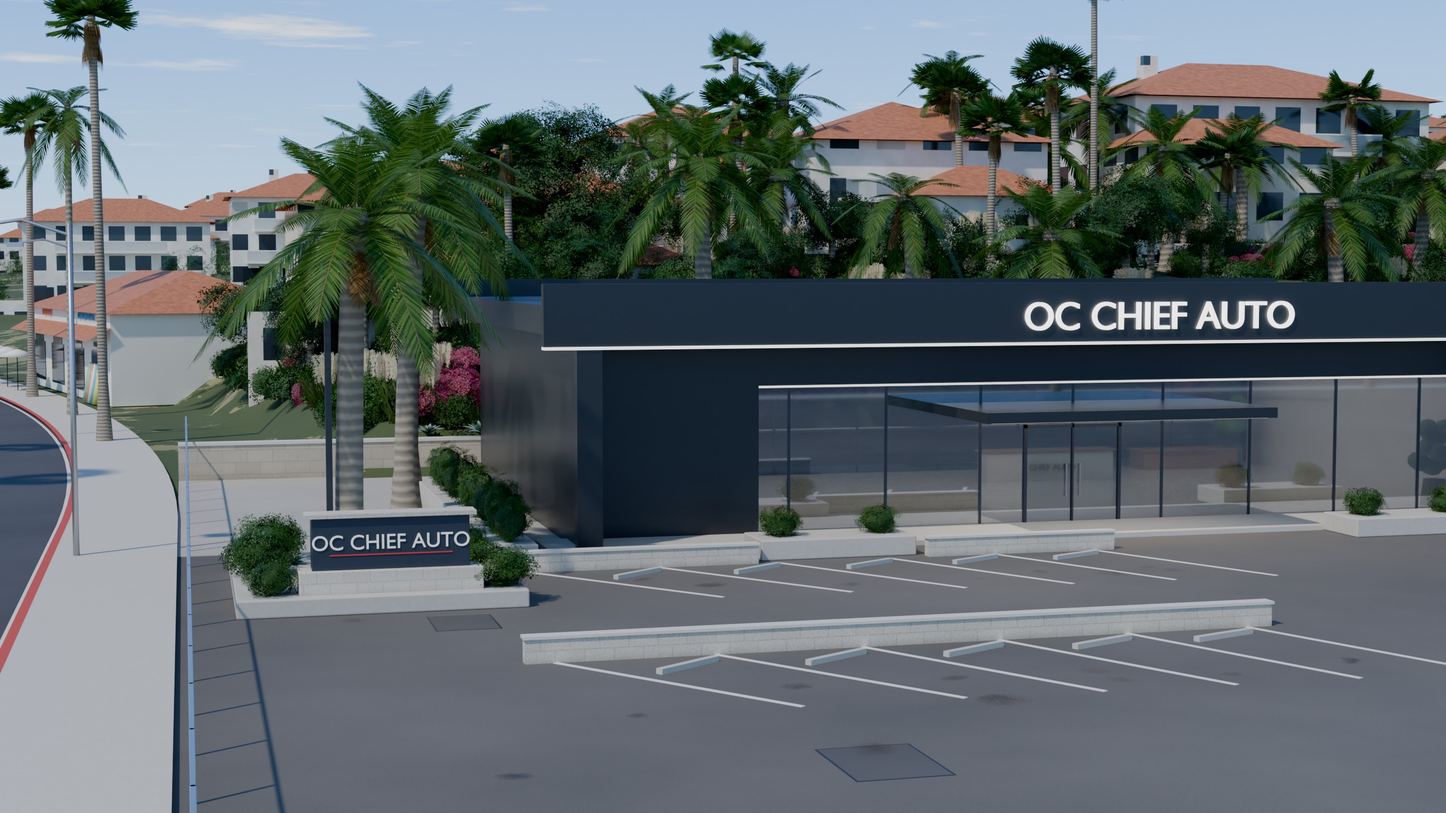
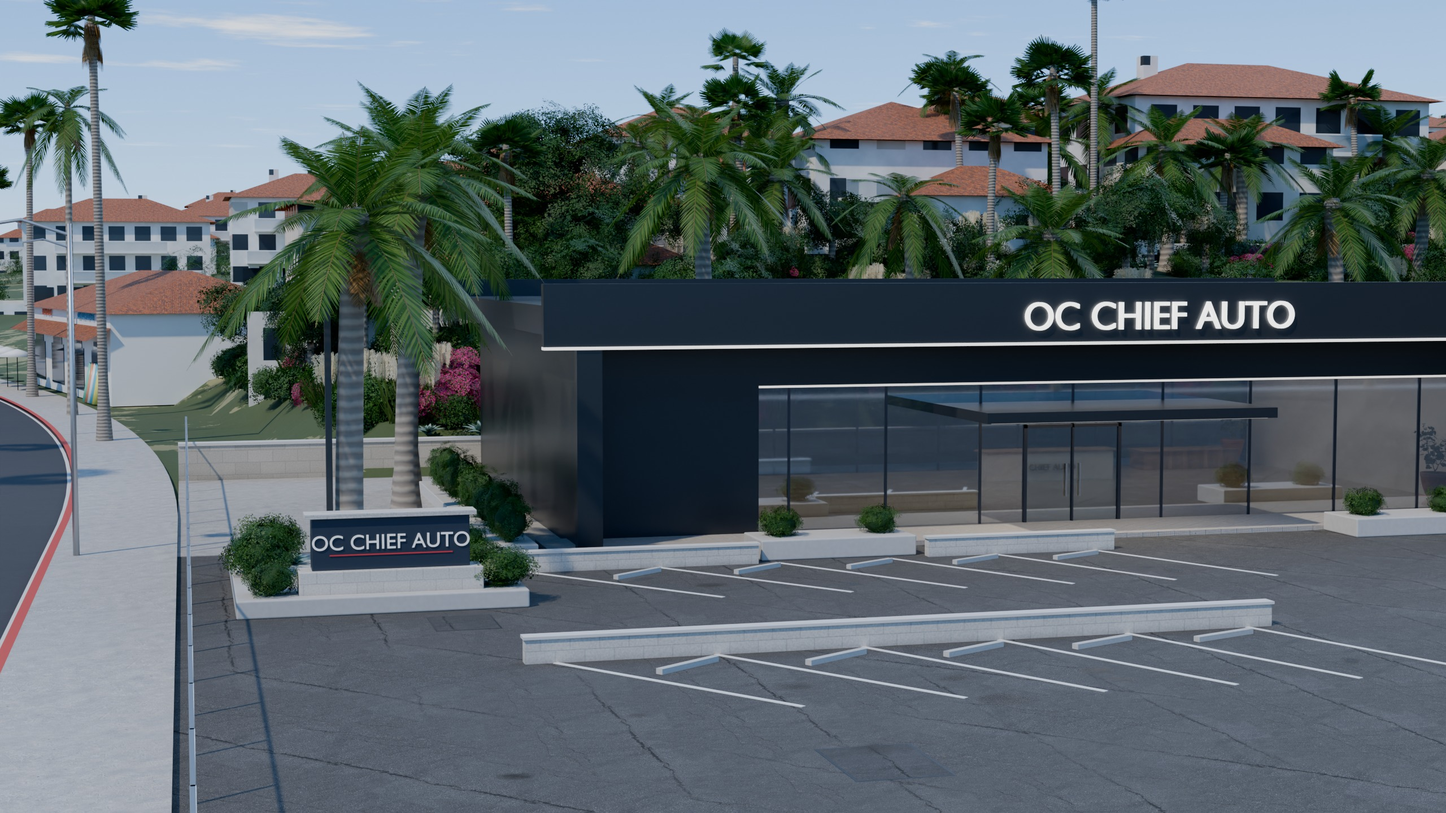
CC0 materials: single dominant-axis projection (faster renders); flagship lot, showroom and office re-rendered with scanned materials and HDRI bounce light
Claude-Session: https://claude.ai/code/session_01NPxWDMmDr35mH1YXpri3Ec

diff --git a/tools/dealership3d.py b/tools/dealership3d.py
@@ -127,7 +127,7 @@ def noise_mat(name, c1, c2, scale, rough, detail=6, bump=0.0, metal=0.0, veins=F
 # ---------------------------------------------------------------- CC0 scanned materials and props (Poly Haven)
 # Real photo-scanned textures replace the procedural asphalt, concrete, walls, roof tiles, sand, grass, floors and
 # wood (apply_cc0 swaps them in by material name after the scene is built). Each is a Principled BSDF fed by the
-# colour, roughness and OpenGL normal maps, projected triplanar in world metres at the texture's real-world size,
+# colour, roughness and OpenGL normal maps, projected planar along each face's main axis in world metres at the texture's real-world size,
 # with a second rotated, rescaled sample blended in by a large noise and a soft brightness drift so no repeat shows.
 CC0 = os.environ.get("CC0", "/mnt/project-files/chief-auto/cc0")
 _tex_cache = {}
@@ -224,61 +224,23 @@ def cc0_mat(name, tex, size, tint=0.0, rough=None, nstr=1.0, old=None, mul=1.0):
     drift = nt.nodes.new("ShaderNodeMapRange")
     drift.inputs["To Min"].default_value, drift.inputs["To Max"].default_value = 0.86, 1.12
     nt.links.new(_noise(nt, P, 0.12 / size, 2.0).outputs["Fac"], drift.inputs["Value"])
-    # triplanar weights |N|^4, normalised
-    ws = [_math(nt, "POWER", _math(nt, "ABSOLUTE", sn.outputs[a]), 4.0) for a in "XYZ"]
-    tot = _math(nt, "ADD", _math(nt, "ADD", ws[0], ws[1]), _math(nt, "ADD", ws[2], 1e-5))
-    ws = [_math(nt, "DIVIDE", w, tot) for w in ws]
-    cols, rs, ns = [], [], []
-    for ax, (u, v) in enumerate((("Y", "Z"), ("X", "Z"), ("X", "Y"))):
-        uv = nt.nodes.new("ShaderNodeCombineXYZ")
-        nt.links.new(sp.outputs[u], uv.inputs[0])
-        nt.links.new(sp.outputs[v], uv.inputs[1])
-        rot = nt.nodes.new("ShaderNodeVectorRotate")
-        rot.rotation_type = "Z_AXIS"
-        rot.inputs["Angle"].default_value = 0.63 + ax * 0.9
-        nt.links.new(uv.outputs[0], rot.inputs["Vector"])
-        uv2 = nt.nodes.new("ShaderNodeVectorMath")
-        uv2.operation = "MULTIPLY_ADD"
-        uv2.inputs[1].default_value = (0.79, 0.79, 0.79)
-        uv2.inputs[2].default_value = (0.37 + ax * 0.21, 0.71, 0.0)
-        nt.links.new(rot.outputs[0], uv2.inputs[0])
-        per = []
-        for im in (dif, rgh, nor):
-            outs = []
-            for vec in (uv.outputs[0], uv2.outputs[0]):
-                t = nt.nodes.new("ShaderNodeTexImage")
-                t.image = im
-                t.interpolation = "Linear"
-                nt.links.new(vec, t.inputs["Vector"])
-                outs.append(t.outputs["Color"])
-            per.append(_mix(nt, mix_f, outs[0], outs[1]))
-        cols.append(per[0])
-        rs.append(per[1])
-        # tangent-space normal to world: (r,g) run along the projection's u,v; b along the face normal
-        tn = nt.nodes.new("ShaderNodeVectorMath")
-        tn.operation = "MULTIPLY_ADD"
-        tn.inputs[1].default_value = (2.0 * nstr, 2.0 * nstr, 2.0)
-        tn.inputs[2].default_value = (-nstr, -nstr, -1.0)
-        nt.links.new(per[2], tn.inputs[0])
-        st = nt.nodes.new("ShaderNodeSeparateXYZ")
-        nt.links.new(tn.outputs[0], st.inputs[0])
-        out_ax = "XYZ"[ax]
-        comps = {u: st.outputs["X"], v: st.outputs["Y"],
-                 out_ax: _math(nt, "MULTIPLY", st.outputs["Z"], _math(nt, "SIGN", sn.outputs[out_ax]))}
-        cw = nt.nodes.new("ShaderNodeCombineXYZ")
-        for k, s in comps.items():
-            nt.links.new(s, cw.inputs[k])
-        ns.append(cw.outputs[0])
+    # one planar projection per face, picked by the dominant normal axis (boxes, roads and terrain are all
+    # near axis-aligned; one sample set instead of three keeps the 2560x1440 renders affordable)
+    ab = [_math(nt, "ABSOLUTE", sn.outputs[a]) for a in "XYZ"]
+    wz = _math(nt, "MULTIPLY", _math(nt, "GREATER_THAN", ab[2], _math(nt, "SUBTRACT", ab[0], 1e-4)),
+               _math(nt, "GREATER_THAN", ab[2], _math(nt, "SUBTRACT", ab[1], 1e-4)))
+    wx = _math(nt, "MULTIPLY", _math(nt, "GREATER_THAN", ab[0], ab[1]), _math(nt, "SUBTRACT", 1.0, wz))
+    wy = _math(nt, "SUBTRACT", _math(nt, "SUBTRACT", 1.0, wz), wx)
+    ws = [wx, wy, wz]
 
-    def wsum(vals, kind):
+    def wsum(vals):
         acc = None
         for w, v in zip(ws, vals):
-            if kind == "rgb":
-                t = nt.nodes.new("ShaderNodeVectorMath")
-                t.operation = "SCALE"
-                nt.links.new(v, t.inputs[0])
-                nt.links.new(w, t.inputs["Scale"])
-                t = t.outputs[0]
+            t = nt.nodes.new("ShaderNodeVectorMath")
+            t.operation = "SCALE"
+            nt.links.new(v, t.inputs[0])
+            nt.links.new(w, t.inputs["Scale"])
+            t = t.outputs[0]
             if acc is None:
                 acc = t
             else:
@@ -289,7 +251,52 @@ def cc0_mat(name, tex, size, tint=0.0, rough=None, nstr=1.0, old=None, mul=1.0):
                 acc = a.outputs[0]
         return acc
 
-    col = wsum(cols, "rgb")
+    planes = (("Y", "Z"), ("X", "Z"), ("X", "Y"))
+    uvs = []
+    for u, v in planes:
+        c = nt.nodes.new("ShaderNodeCombineXYZ")
+        nt.links.new(sp.outputs[u], c.inputs[0])
+        nt.links.new(sp.outputs[v], c.inputs[1])
+        uvs.append(c.outputs[0])
+    uv = wsum(uvs)
+    rot = nt.nodes.new("ShaderNodeVectorRotate")
+    rot.rotation_type = "Z_AXIS"
+    rot.inputs["Angle"].default_value = 0.63
+    nt.links.new(uv, rot.inputs["Vector"])
+    uv2 = nt.nodes.new("ShaderNodeVectorMath")
+    uv2.operation = "MULTIPLY_ADD"
+    uv2.inputs[1].default_value = (0.79, 0.79, 0.79)
+    uv2.inputs[2].default_value = (0.37, 0.71, 0.0)
+    nt.links.new(rot.outputs[0], uv2.inputs[0])
+    per = []
+    for im in (dif, rgh, nor):
+        outs = []
+        for vec in (uv, uv2.outputs[0]):
+            t = nt.nodes.new("ShaderNodeTexImage")
+            t.image = im
+            t.interpolation = "Linear"
+            nt.links.new(vec, t.inputs["Vector"])
+            outs.append(t.outputs["Color"])
+        per.append(_mix(nt, mix_f, outs[0], outs[1]))
+    # tangent-space normal to world: (r,g) run along the projection's u,v; b along the face normal
+    tn = nt.nodes.new("ShaderNodeVectorMath")
+    tn.operation = "MULTIPLY_ADD"
+    tn.inputs[1].default_value = (2.0 * nstr, 2.0 * nstr, 2.0)
+    tn.inputs[2].default_value = (-nstr, -nstr, -1.0)
+    nt.links.new(per[2], tn.inputs[0])
+    st = nt.nodes.new("ShaderNodeSeparateXYZ")
+    nt.links.new(tn.outputs[0], st.inputs[0])
+    ns = []
+    for ax, (u, v) in enumerate(planes):
+        out_ax = "XYZ"[ax]
+        comps = {u: st.outputs["X"], v: st.outputs["Y"],
+                 out_ax: _math(nt, "MULTIPLY", st.outputs["Z"], _math(nt, "SIGN", sn.outputs[out_ax]))}
+        cw = nt.nodes.new("ShaderNodeCombineXYZ")
+        for kk, sv in comps.items():
+            nt.links.new(sv, cw.inputs[kk])
+        ns.append(cw.outputs[0])
+
+    col = per[0]
     gain = [1.0, 1.0, 1.0]
     if tint > 0 and old is not None:
         gain = [1.0 + tint * (max(0.005, o) / max(0.005, d) - 1.0) for o, d in zip(old, dmean)]
@@ -300,14 +307,14 @@ def cc0_mat(name, tex, size, tint=0.0, rough=None, nstr=1.0, old=None, mul=1.0):
     col = _mix(nt, 1.0, g.outputs[0], drift.outputs["Result"], "MULTIPLY")
     nt.links.new(col, b.inputs["Base Color"])
     r = nt.nodes.new("ShaderNodeRGBToBW")
-    nt.links.new(wsum(rs, "rgb"), r.inputs[0])
+    nt.links.new(per[1], r.inputs[0])
     rv = r.outputs[0]
     if rough is not None:
         rv = _math(nt, "MULTIPLY", rv, rough / max(0.02, sum(rmean) / 3), clamp=True)
     nt.links.new(rv, b.inputs["Roughness"])
     nn = nt.nodes.new("ShaderNodeVectorMath")
     nn.operation = "NORMALIZE"
-    nt.links.new(wsum(ns, "rgb"), nn.inputs[0])
+    nt.links.new(wsum(ns), nn.inputs[0])
     nt.links.new(nn.outputs[0], b.inputs["Normal"])
     b.inputs["Metallic"].default_value = 0.0
     _mats[key] = m
